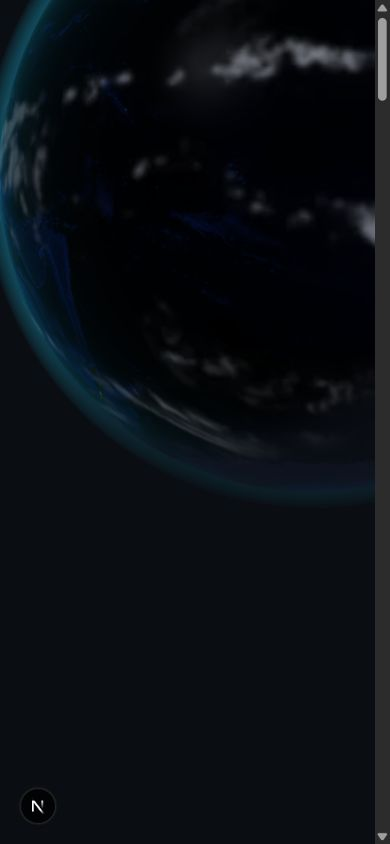
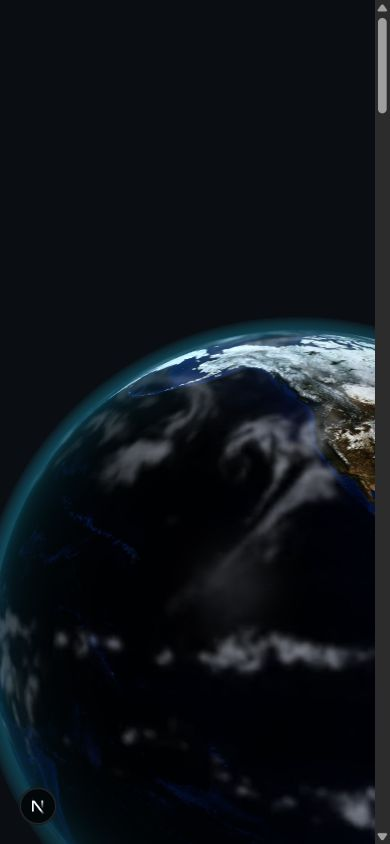
feat: round 5: tiles and Elsewhere chapter removed, phone text pinned to the top
The LinkedIn and GitHub tiles are gone at the owner's request, along with
the chapter that held them; the links sit under the offer button and in
the footer. On phones every chapter's text is pinned to the top of its
stage, the edge that enters first, with the visual below, so no frame is
picture-only. The hero shows more of the lit side with the name higher and
a translucent loader; the week grid is pitch-only with larger labels; the
header goes solid over the Arctic zoom; the web chapter holds until the
offer covers it. README notes the five chapters.

diff --git a/src/app/page.tsx b/src/app/page.tsx
@@ -45,6 +45,7 @@ export default function HomePage() {
           length={0.5}
           intro
           align="center"
+          className="[&_.chapter-panel]:sm:-translate-y-[6svh]"
           visual={<FilmHero />}
         >
           <h1
@@ -103,7 +104,7 @@ export default function HomePage() {
               testing, and direct support for the clinical staff who depend on
               it every day.
             </p>
-            <p data-line>
+            <p data-line className="hidden sm:block">
               It is a good place to learn what software looks like when the
               stakes are real. People notice immediately when a clinic cannot
               book a patient.
@@ -127,7 +128,7 @@ export default function HomePage() {
         </Chapter>
 
         {/* ------------------------------------------------------ 04, web */}
-        <Chapter id="web" index="04" label="Web" length={0.45}>
+        <Chapter id="web" index="04" label="Web" length={0.45} hold>
           <h2 id="web-title" className={chapterTitle} data-line>
             Small, fast pages that are real HTML before any JavaScript runs.
           </h2>
@@ -158,40 +159,9 @@ export default function HomePage() {
           </ul>
         </Chapter>
 
-        {/* -------------------------------------------------- 05, symbols */}
-        <Chapter
-          id="elsewhere"
-          index="05"
-          label="Elsewhere"
-          length={0.3}
-          align="center"
-        >
-          <h2 id="elsewhere-title" className="sr-only">
-            Elsewhere
-          </h2>
-          <ul className="grid grid-cols-2 gap-4 sm:gap-8">
-            {site.socials.map((s) => (
-              <li key={s.href} data-line className="flex flex-col items-center text-center">
-                <a
-                  href={s.href}
-                  target="_blank"
-                  rel="noreferrer noopener"
-                  className="group inline-flex items-baseline gap-2 font-display text-[clamp(1.75rem,0.9rem+3vw,4rem)] leading-none text-ink transition-colors hover:text-signal"
-                >
-                  {s.label}
-                  <ArrowUpRightIcon
-                    aria-hidden
-                    className="size-5 translate-y-0.5 transition-transform duration-300 group-hover:translate-x-1 group-hover:-translate-y-0.5 sm:size-7"
-                  />
-                </a>
-                <span className="label mt-3 max-w-[22ch]">{s.note}</span>
-              </li>
-            ))}
-          </ul>
-        </Chapter>
       </FilmMotion>
 
-      {/* ------------------------------------------------------ 06, the offer */}
+      {/* ------------------------------------------------------ 05, the offer */}
       <section
         aria-labelledby="offer-title"
         className="relative overflow-hidden border-t border-line bg-ground"
@@ -199,7 +169,7 @@ export default function HomePage() {
         <Container className="relative py-24 sm:py-32">
           <div className="grid gap-12 lg:grid-cols-[1.1fr_1fr] lg:gap-20">
             <div>
-              <p className="label">06 / The offer</p>
+              <p className="label">05 / The offer</p>
               <h2
                 id="offer-title"
                 className="mt-6 max-w-[14ch] font-display text-display text-ink"
@@ -217,6 +187,24 @@ export default function HomePage() {
                 Say what you need
                 <ArrowRightIcon aria-hidden className="size-4" />
               </Link>
+              <ul className="mt-10 flex flex-wrap gap-x-8 gap-y-2">
+                {site.socials.map((s) => (
+                  <li key={s.href}>
+                    <a
+                      href={s.href}
+                      target="_blank"
+                      rel="noreferrer noopener"
+                      className="label group inline-flex items-center gap-1.5 text-ink-muted transition-colors hover:text-signal"
+                    >
+                      {s.label}
+                      <ArrowUpRightIcon
+                        aria-hidden
+                        className="size-3.5 transition-transform duration-300 group-hover:translate-x-0.5 group-hover:-translate-y-0.5"
+                      />
+                    </a>
+                  </li>
+                ))}
+              </ul>
             </div>
             <ul className="grid gap-8">
               {offers.map((offer, i) => (

diff --git a/src/components/film/schedule-scene.tsx b/src/components/film/schedule-scene.tsx
@@ -77,9 +77,9 @@ export function ScheduleScene() {
   const { narrow, halfW } = useStage();
   const smooth = React.useRef({ build: 0, reflow: 0, on: 0 });
   const caption = React.useRef<THREE.Mesh>(null);
-  const dayLabels = React.useMemo(() => makeText(DAYS, 1024, 96), []);
-  const hourLabels = React.useMemo(() => makeText(["18", "12", "06"], 96, 512, "right"), []);
-  const conflictLabel = React.useMemo(() => makeText(["conflict"], 512, 96, "left", "#f2a65a"), []);
+  const dayLabels = React.useMemo(() => makeText(DAYS, 1024, 80, "center", "#a3adbb"), []);
+  const hourLabels = React.useMemo(() => makeText(["18", "12", "06"], 80, 512, "right", "#a3adbb"), []);
+  const conflictLabel = React.useMemo(() => makeText(["conflict, moved"], 512, 72, "left", "#f2a65a"), []);
 
   useFrame((_, delta) => {
     const g = group.current;
@@ -134,13 +134,13 @@ export function ScheduleScene() {
     // up and shrinks away as the chapter leaves.
     const leave = ease(p.exit / 0.55);
     const base = narrow
-      ? { x: -0.08, y: 0.58, s: 0.5 }
-      : { x: Math.min(0.95, halfW - 0.85), y: -0.05, s: 0.9 };
+      ? { x: 0, y: -0.66, s: 0.36 }
+      : { x: Math.min(0.9, halfW - 0.95), y: 0.05, s: 0.78 };
     g.position.set(base.x, base.y + leave * 1.1, 0);
     // Holds back until the Earth has mostly left, then grows in.
     const arrive = ease((p.enter - 0.3) / 0.5);
     g.scale.setScalar(Math.max(0.0001, base.s * (1 - leave * 0.4) * (0.7 + 0.3 * arrive) * arrive * (1 - leave)));
-    g.rotation.set(-0.72 + leave * 0.3, -0.28 + Math.sin(p.pin * Math.PI) * 0.1, 0);
+    g.rotation.set(-0.62 + leave * 0.3, Math.sin(p.pin * Math.PI) * 0.06 - 0.06, 0);
     if (caption.current) {
       const material = caption.current.material as THREE.MeshBasicMaterial;
       material.opacity = ease((reflow - 0.35) / 0.3) * (1 - leave);
@@ -154,12 +154,12 @@ export function ScheduleScene() {
         <meshStandardMaterial color="#0c1117" roughness={0.9} metalness={0} />
       </mesh>
       {/* Day names along the far edge, hours down the left, both lying flat. */}
-      <mesh rotation={[-Math.PI / 2, 0, 0]} position={[0, 0.002, -(ROWS * (CELL + GAP)) / 2 - 0.16]}>
-        <planeGeometry args={[COLUMNS * (CELL + GAP), 0.11]} />
+      <mesh rotation={[-Math.PI / 2, 0, 0]} position={[0, 0.002, -(ROWS * (CELL + GAP)) / 2 - 0.2]}>
+        <planeGeometry args={[COLUMNS * (CELL + GAP), 0.16]} />
         <meshBasicMaterial map={dayLabels} transparent depthWrite={false} />
       </mesh>
-      <mesh rotation={[-Math.PI / 2, 0, 0]} position={[-(COLUMNS * (CELL + GAP)) / 2 - 0.16, 0.002, 0]}>
-        <planeGeometry args={[0.11, ROWS * (CELL + GAP)]} />
+      <mesh rotation={[-Math.PI / 2, 0, 0]} position={[-(COLUMNS * (CELL + GAP)) / 2 - 0.2, 0.002, 0]}>
+        <planeGeometry args={[0.16, ROWS * (CELL + GAP)]} />
         <meshBasicMaterial map={hourLabels} transparent depthWrite={false} />
       </mesh>
       <mesh
@@ -171,7 +171,7 @@ export function ScheduleScene() {
           -((ROWS * CELL + (ROWS - 1) * GAP) / 2) + 8 * (CELL + GAP) + CELL / 2,
         ]}
       >
-        <planeGeometry args={[0.6, 0.11]} />
+        <planeGeometry args={[0.9, 0.13]} />
         <meshBasicMaterial map={conflictLabel} transparent opacity={0} depthWrite={false} />
       </mesh>
       <instancedMesh ref={bars} args={[undefined, undefined, COUNT]}>

diff --git a/src/components/film/earth.tsx b/src/components/film/earth.tsx
@@ -176,7 +176,7 @@ export function Earth() {
   const lineMaterial = React.useRef<THREE.LineBasicMaterial>(null);
   const { aspect, narrow, halfW } = useStage();
 
-  const sun = React.useMemo(() => new THREE.Vector3(-0.6, 0.5, 0.66).normalize(), []);
+  const sun = React.useMemo(() => new THREE.Vector3(-0.42, 0.42, 0.8).normalize(), []);
   const uniforms = React.useMemo(
     () => ({
       uDay: { value: maps.day },
@@ -198,7 +198,7 @@ export function Earth() {
 
   const smooth = React.useRef({ zoom: 0, recede: 0, gone: 0 });
   const idle = React.useRef(0.2);
-  const sunFrom = React.useMemo(() => new THREE.Vector3(-0.6, 0.5, 0.66).normalize(), []);
+  const sunFrom = React.useMemo(() => new THREE.Vector3(-0.42, 0.42, 0.8).normalize(), []);
   const sunTo = React.useMemo(() => new THREE.Vector3(-0.55, 0.5, 0.75).normalize(), []);
 
   useFrame((_, delta) => {
@@ -237,12 +237,12 @@ export function Earth() {
     if (clouds.current) clouds.current.rotation.y += dt * 0.008;
 
     const arrival: Pose = narrow
-      ? { x: 0.32, y: 0.62, s: 0.8 }
-      : { x: Math.min(1.05, halfW - 0.7), y: -0.05, s: 1.18 };
+      ? { x: 0.28, y: -0.55, s: 0.78 }
+      : { x: Math.min(1.05, halfW - 0.7), y: -0.02, s: 1.18 };
     const needed = aspect >= 1 ? 0.95 : 0.95 / aspect;
     const zoomed: Pose = {
       x: 0,
-      y: narrow ? 0.3 : 0.05,
+      y: narrow ? -0.55 : 0.05,
       s: (2 * HALF_HEIGHT) / (2 * Math.tan((FOV / 2) * DEG) + needed),
     };
     // Where it heads as it leaves: up and back, shrinking to nothing.

diff --git a/src/components/film/cards-scene.tsx b/src/components/film/cards-scene.tsx
@@ -10,7 +10,8 @@ import { SURFACE_2, damp, ease, useStage } from "./scene-utils";
 /**
  * The web chapter: three cards, each a real screenshot of a real page on a
  * plane with a dark frame, fanned in space, tilting toward the pointer and
- * breathing a little. They rise in with the text and lift away with it.
+ * breathing a little. They rise in with the text and lift away with it,
+ * the last thing on the canvas before the offer.
  */
 
 const SHOTS = ["/work/orbits.png", "/work/pendulum.png", "/work/shift.png"];
@@ -74,9 +75,9 @@ export function CardsScene() {
     smooth.current.tx = damp(smooth.current.tx, aim.x, 4, dt);
     smooth.current.ty = damp(smooth.current.ty, aim.y, 4, dt);
 
-    const leave = ease(progress.web.exit / 0.5);
+    const leave = ease(progress.web.exit) * 0.35;
     const base = narrow
-      ? { x: 0, y: 0.88, s: 0.72 }
+      ? { x: 0, y: -0.62, s: 0.72 }
       : { x: Math.min(0.35, halfW - 1.6), y: 0.36, s: 1.45 };
     g.position.set(base.x, base.y + leave * 1.2, 0);
     g.scale.setScalar(Math.max(0.0001, base.s * (1 - leave)));

diff --git a/src/components/film/chapter.tsx b/src/components/film/chapter.tsx
@@ -62,9 +62,12 @@ export function Chapter({
         <div
           className={cn(
             "chapter-panel mx-auto w-full max-w-6xl px-5 sm:px-8 lg:px-12",
-            align === "start" && "self-start pt-28",
-            align === "center" && "self-center",
-            align === "end" && "self-end pb-14 sm:pb-20",
+            // Phones: text at the top of the stage, which is the edge that
+            // enters the viewport first, so a frame is never picture-only.
+            "self-start pt-24 pb-6",
+            align === "start" && "sm:pt-28",
+            align === "center" && "sm:self-center sm:pt-0",
+            align === "end" && "sm:self-end sm:pt-0 sm:pb-20",
           )}
         >
           <p className="label mb-6" data-line>

diff --git a/src/components/film/film-scene.tsx b/src/components/film/film-scene.tsx
@@ -9,7 +9,6 @@ import { Earth } from "./earth";
 import { ScheduleScene } from "./schedule-scene";
 import { OrbitsScene } from "./orbits-scene";
 import { CardsScene } from "./cards-scene";
-import { MarksScene } from "./marks-scene";
 
 /** Mirrors three's default loading manager into the loader overlay. Wired
  * in an effect, so no React state changes during another component's
@@ -65,7 +64,6 @@ export default function FilmScene({ onReady }: { onReady: () => void }) {
         <ScheduleScene />
         <OrbitsScene />
         <CardsScene />
-        <MarksScene />
         <Ready onReady={onReady} />
       </React.Suspense>
     </Canvas>

diff --git a/src/components/site-header.tsx b/src/components/site-header.tsx
@@ -49,7 +49,7 @@ export function SiteHeader() {
         if (p.enter > 0.5 && p.exit < 0.5) current = id;
         filled += Math.min(1, p.enter) + p.pin;
       }
-      const past = progress.elsewhere.exit >= 0.98;
+      const past = progress.web.exit >= 0.98;
       // Over the bright Arctic the mask is not enough; go solid for the zoom.
       const overIce = progress.canada.pin > 0.1 && progress.systems.enter < 0.7;
       const index = past ? chapterIds.length : chapterIds.indexOf(current);

diff --git a/src/components/film/film-hero.tsx b/src/components/film/film-hero.tsx
@@ -92,7 +92,7 @@ export function FilmHero() {
               role="status"
               aria-live="polite"
               className={cn(
-                "fixed inset-0 z-50 grid place-items-center bg-ground transition-opacity duration-700 ease-out",
+                "fixed inset-0 z-50 grid place-items-center bg-ground/72 backdrop-blur-sm transition-opacity duration-700 ease-out",
                 loading.done ? "opacity-0" : "opacity-100",
               )}
             >

diff --git a/src/components/film/orbits-scene.tsx b/src/components/film/orbits-scene.tsx
@@ -174,7 +174,7 @@ export function OrbitsScene() {
     const enter = ease((p.enter - 0.45) / 0.5);
     const leave = ease(p.exit / 0.3);
     const base = narrow
-      ? { x: 0.1, y: 0.8, s: 0.42 }
+      ? { x: 0.05, y: -0.55, s: 0.4 }
       : { x: Math.min(0.95, halfW - 0.85), y: 0.3, s: 0.68 };
     g.position.set(base.x, base.y + (1 - enter) * -0.6 + leave * 1.2, 0);
     g.scale.setScalar(Math.max(0.0001, base.s * enter * (1 - leave)));

diff --git a/src/app/experience/page.tsx b/src/app/experience/page.tsx
@@ -66,7 +66,7 @@ export default function ExperiencePage() {
       <Section title="How I got here">
         <div className="grid gap-12 lg:grid-cols-[1.4fr_1fr] lg:gap-20">
           <Reveal>
-            <Prose>
+            <Prose className="text-ink/85">
               <p>
                 I studied physics at the University of British Columbia, which
                 mostly taught me how to sit with a problem I do not understand

diff --git a/src/components/film/film-state.ts b/src/components/film/film-state.ts
@@ -22,7 +22,6 @@ export const chapterIds = [
   "systems",
   "physics",
   "web",
-  "elsewhere",
 ] as const;
 
 export type ChapterId = (typeof chapterIds)[number];
